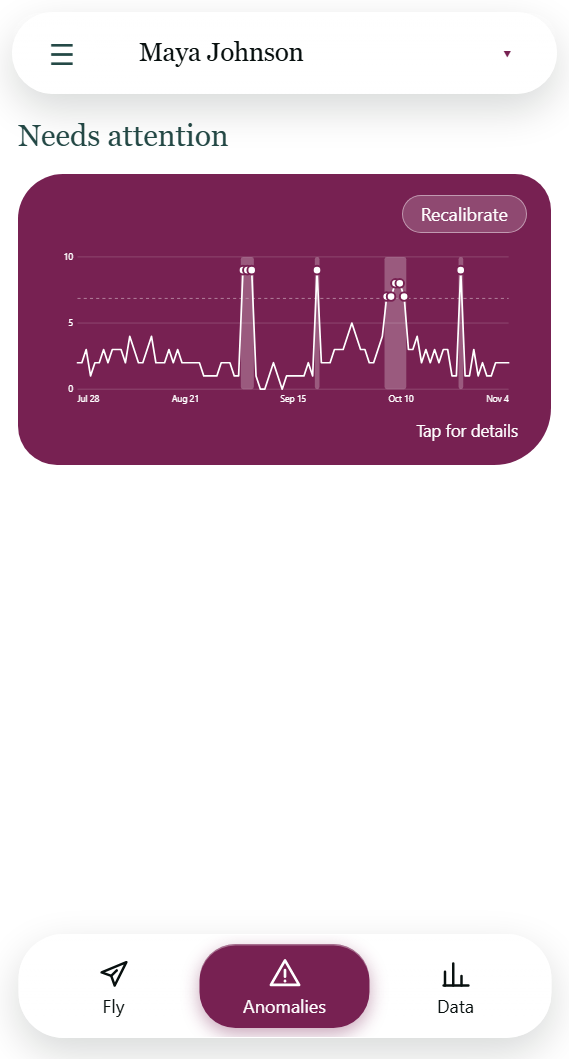
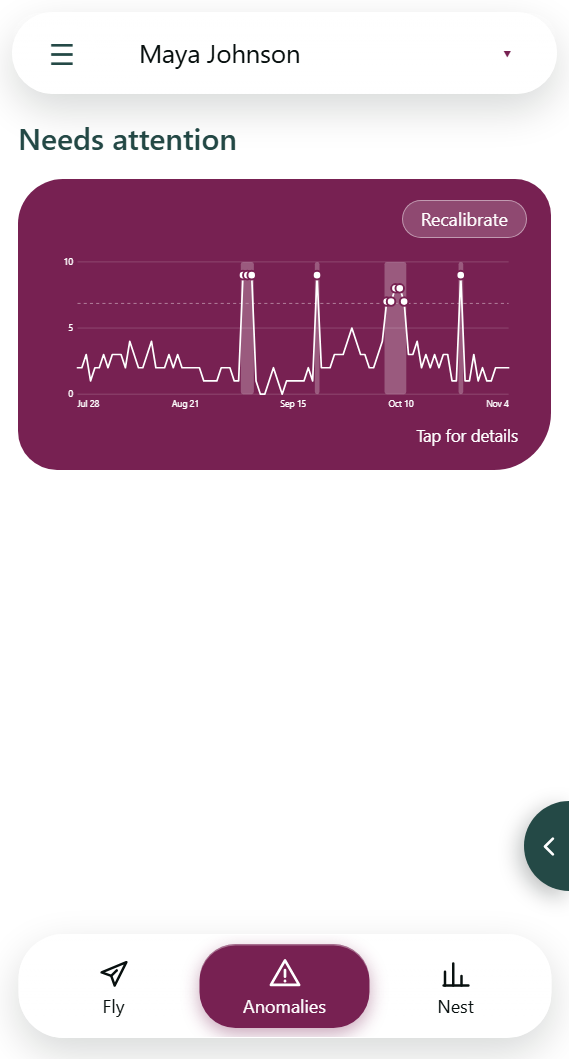
README: match the new UI, refresh screenshots
Aero now rests off-screen behind an edge tab, and the Data page is called Nest.
Update the README text and regenerate the screenshots, and have the capture
script call Aero out via the tab before photographing him.

diff --git a/scripts/capture-readme-shots.js b/scripts/capture-readme-shots.js
@@ -47,13 +47,18 @@ app.whenReady().then(async () => {
     if (visible && hideAero) { await win.webContents.removeInsertedCSS(hideAero); hideAero = null; }
     if (!visible && !hideAero) hideAero = await win.webContents.insertCSS('.aero { display: none !important; }');
   };
-  const say = (text, face) => js(`(() => {
+  // Aero rests off-screen; the tab on the right edge calls him out. Make sure he is out before he speaks.
+  const callOut = async () => {
+    await js(`(() => { const root = document.querySelector('.aero'); if (!root.classList.contains('is-out')) document.querySelector('.aero-tab').click(); })()`);
+    await sleep(700);
+  };
+  const say = async (text, face) => { await callOut(); await js(`(() => {
     const bubble = document.querySelector('.aero-bubble');
     bubble.textContent = ${JSON.stringify(text)};
     bubble.dataset.kind = 'aero';
     bubble.hidden = false;
     document.querySelector('.aero-face').src = 'assets/aero/${face}';
-  })()`);
+  })()`); };
 
   await aero(false);
   await page('fly');

diff --git a/README.md b/README.md
@@ -36,23 +36,23 @@ Three pages over the same patient data, so the answer to "what do I look at firs
     <td align="center" width="25%"><img src="docs/images/fly.png" alt="Appointments page" width="100%"></td>
     <td align="center" width="25%"><img src="docs/images/fly-flashcards.png" alt="Pre-visit flashcards" width="100%"></td>
     <td align="center" width="25%"><img src="docs/images/anomalies.png" alt="Anomalies page" width="100%"></td>
-    <td align="center" width="25%"><img src="docs/images/data.png" alt="Customizable data page" width="100%"></td>
+    <td align="center" width="25%"><img src="docs/images/data.png" alt="Nest, the customizable page" width="100%"></td>
   </tr>
   <tr>
     <td valign="top"><b>Fly</b><br>Every appointment as a card. Past visits open to a snapshot of the weeks before, plus notes.</td>
     <td valign="top"><b>Flashcards</b><br>Tap the upcoming visit for a quick deck of what changed since the last one. Anomalies always make the deck.</td>
     <td valign="top"><b>Anomalies</b><br>Days that were unusual <i>for this patient</i>, marked against a threshold from their own history.</td>
-    <td valign="top"><b>Data</b><br>The deep-review page. Pick, resize and reorder the cards you want. Your layout is saved.</td>
+    <td valign="top"><b>Nest</b><br>The deep-review page. Pick, resize and reorder the cards you want. Your layout is saved.</td>
   </tr>
 </table>
 
-Fly is the "on the way to the room" view. Data is for when you want to dig in.
+Fly is the "on the way to the room" view. Nest is for when you want to dig in.
 
 ## Meet Aero
 
 <img src="docs/images/aero-poses.png" alt="Eight poses of Aero the crane: calm, listening, thinking, talking, good news, anomaly, concerned, asleep." width="100%">
 
-Aero is a small crane who lives in the corner of the screen. **Hold him and ask a question. Let go and he answers**, out loud and in a bubble above him. He answers from the patient's own data, in one sentence, because you are about to walk into a room.
+Aero is a small crane who waits just off the edge of the screen. Tap the little tab on the right edge to call him out. **Hold him and ask a question. Let go and he answers**, out loud and in a bubble above him. He answers from the patient's own data, in one sentence, because you are about to walk into a room. After ten quiet seconds he tucks himself away again.
 
 <table>
   <tr>
@@ -126,7 +126,7 @@ npm run verify:electron  # launches the app and checks the basics
 ```mermaid
 flowchart LR
   subgraph R["Window: no Node access"]
-    P["Pages: Fly, Anomalies, Data"]
+    P["Pages: Fly, Anomalies, Nest"]
     A["Aero: hold to talk, bubble"]
   end
   subgraph M["Main process: keys live here"]
